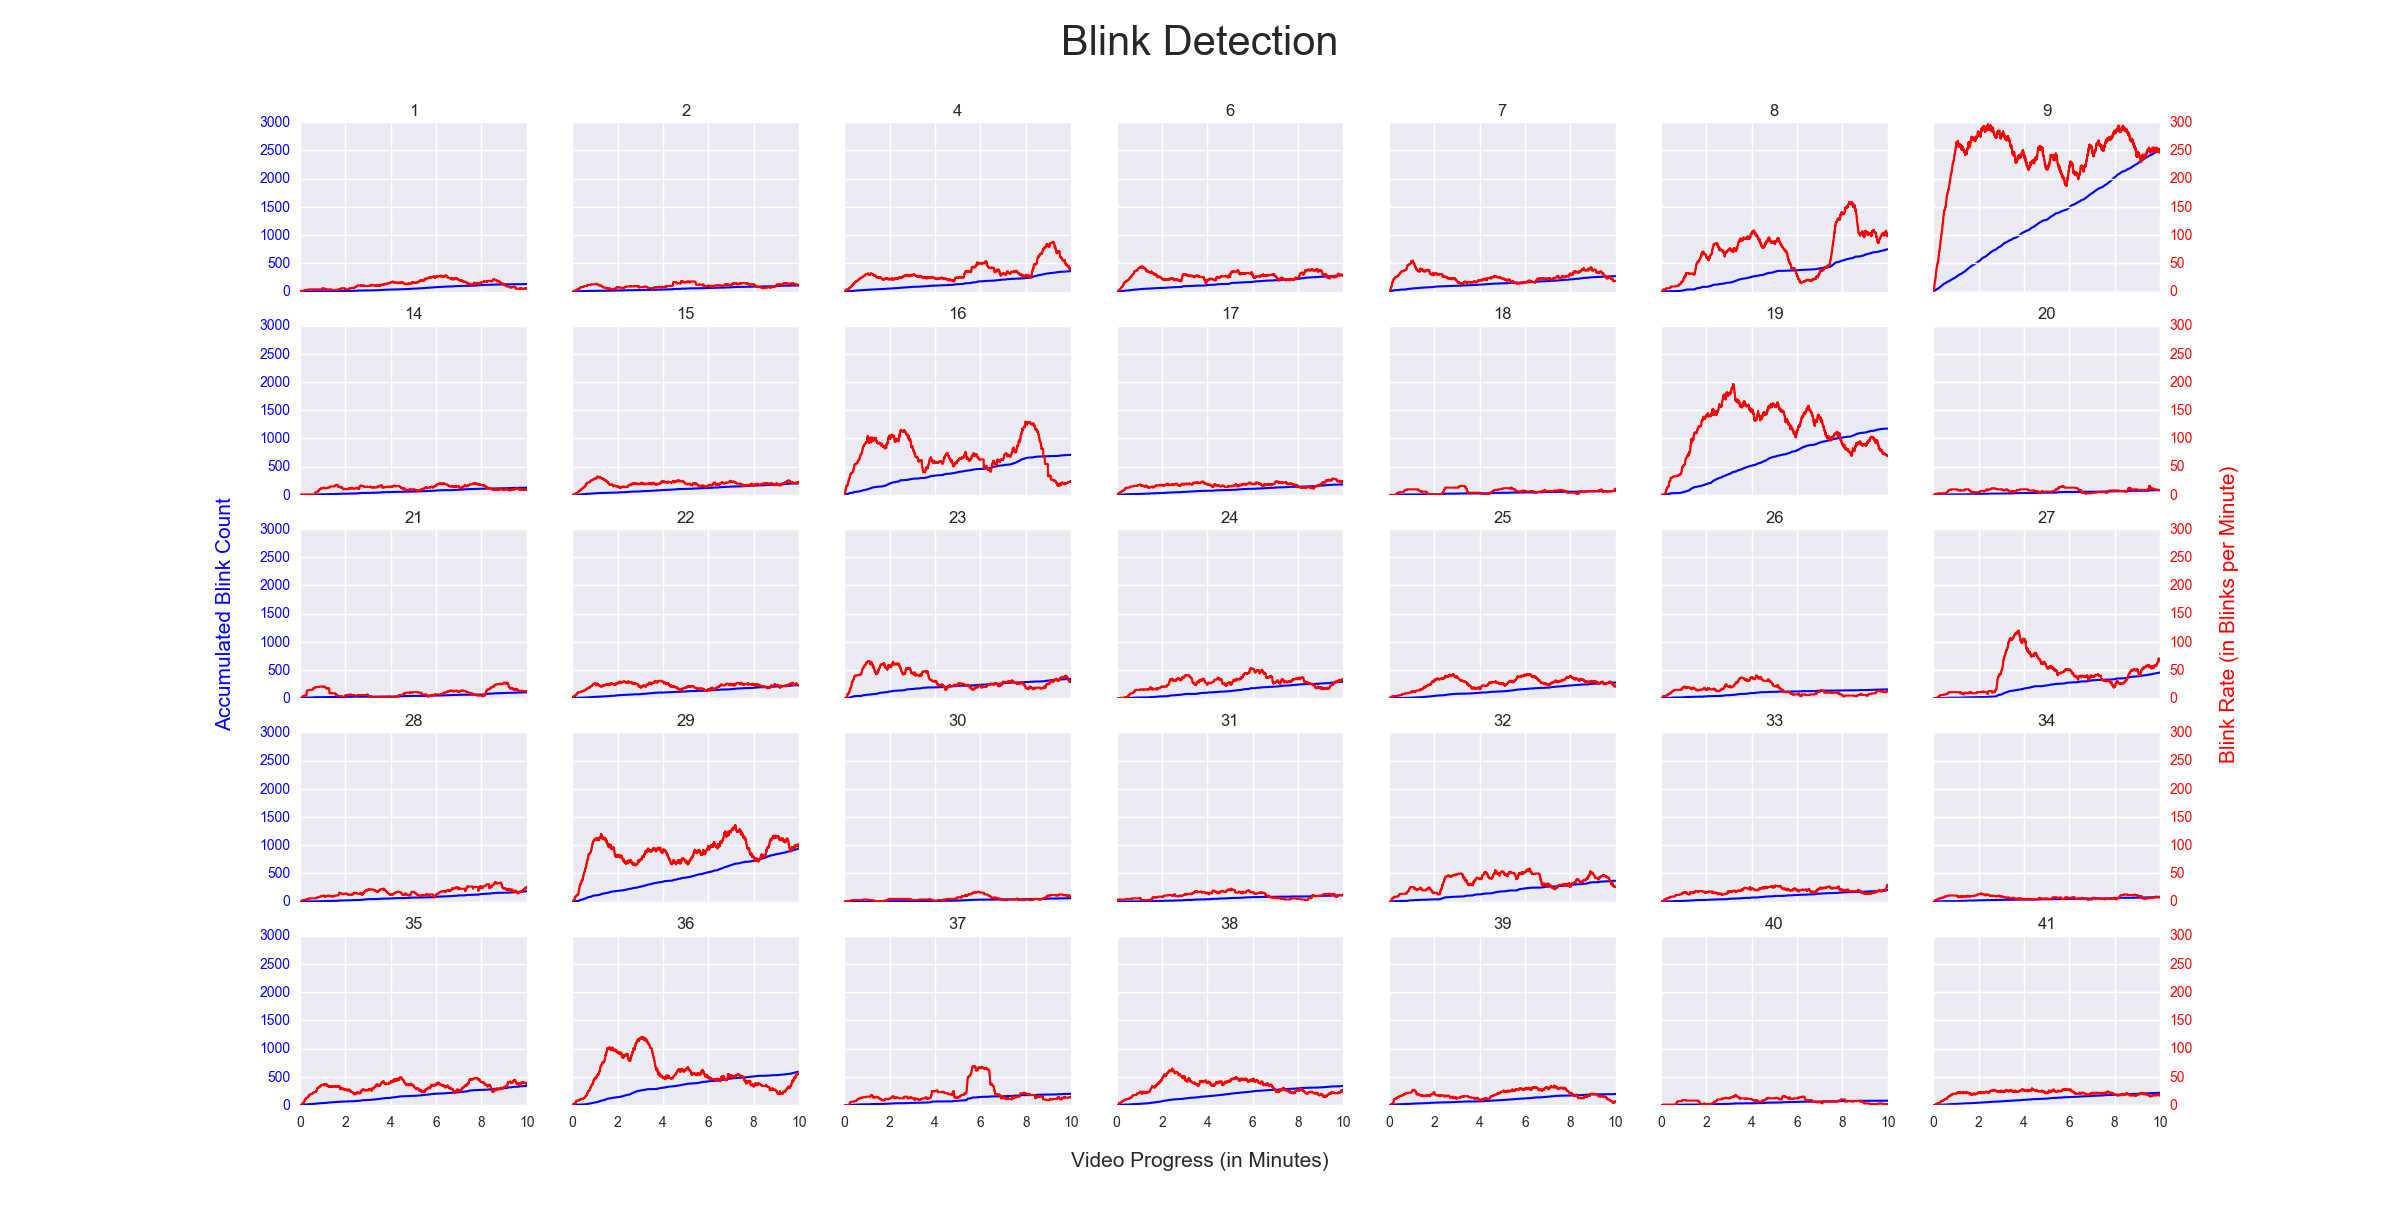
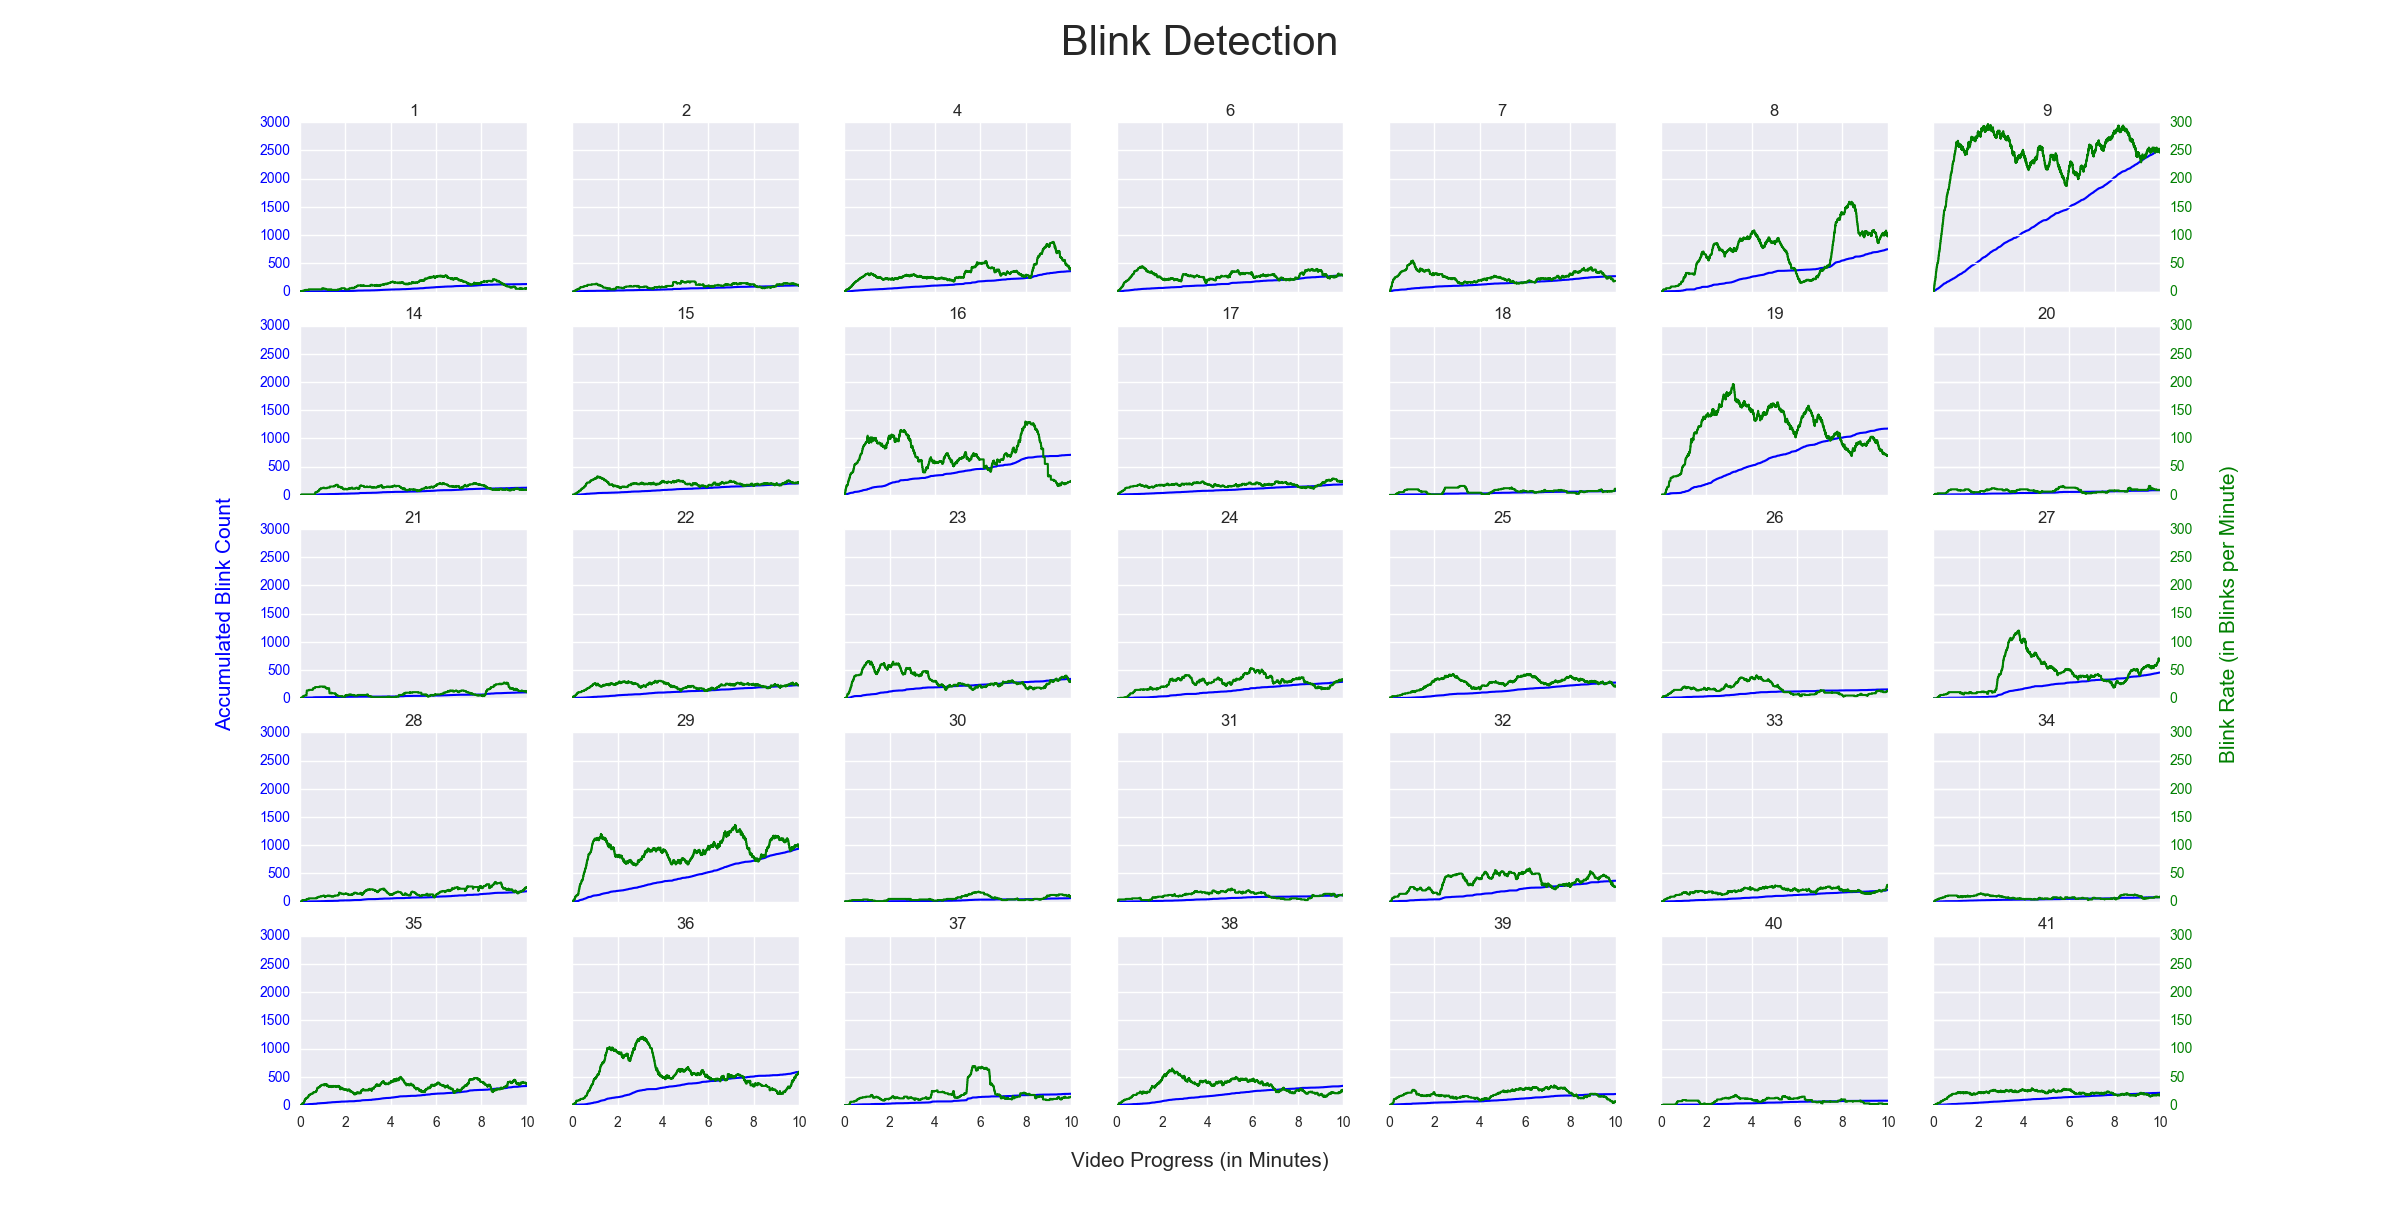
Changed color

diff --git a/fsdk/reports/blinks.py b/fsdk/reports/blinks.py
@@ -127,8 +127,8 @@ def main(argv):
         else:
             shared.get_shared_y_axes().join(shared, axis)
 
-        axis.plot(times, rates, lw=1.5, c='r')
-        axis.tick_params('y', colors='r')
+        axis.plot(times, rates, lw=1.5, c='g')
+        axis.tick_params('y', colors='g')
         if col < 6:
             axis.set_yticks([])
 
@@ -139,7 +139,7 @@ def main(argv):
                             rotation='vertical', fontsize=15)
 
 
-    fig.text(0.925, 0.5, 'Blink Rate (in Blinks per Minute)', va='center', color='r',
+    fig.text(0.925, 0.5, 'Blink Rate (in Blinks per Minute)', va='center', color='g',
                             rotation='vertical', fontsize=15)
 
     fig.text(0.5, 0.05, 'Video Progress (in Minutes)', ha='center', fontsize=15)
